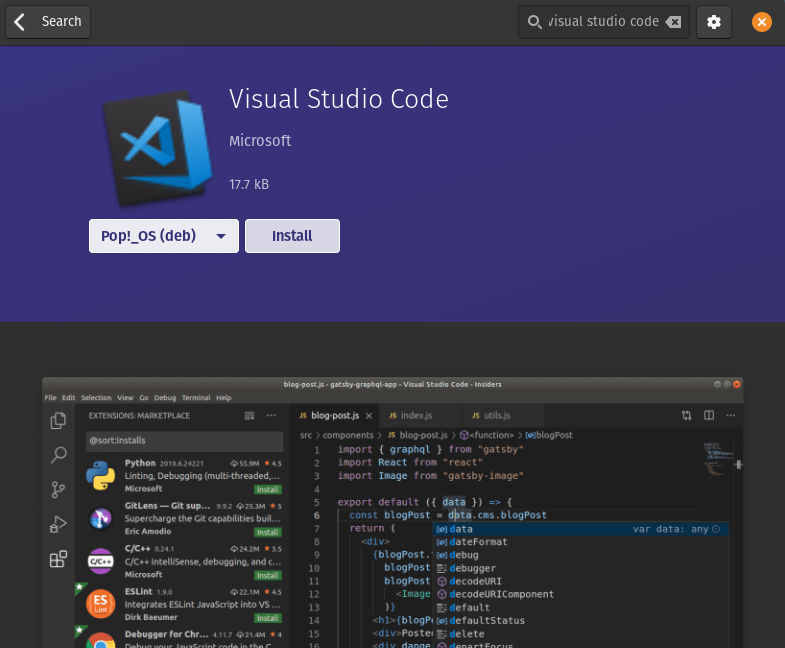
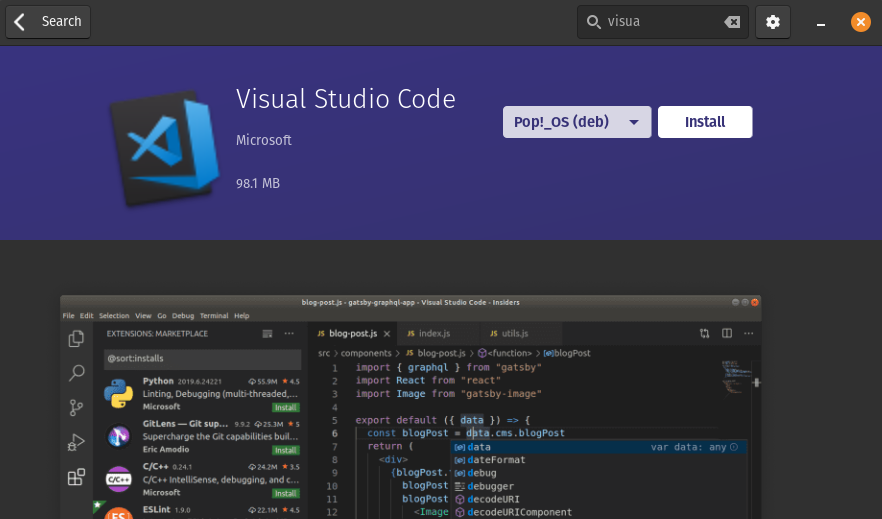
Update for Ubuntu and Pop!_OS 21.10

diff --git a/platforms/ubuntu/README.md b/platforms/ubuntu/README.md
@@ -1,81 +1,33 @@
-# Ubuntu 20.04 LTS<br>Pop!_OS 20.04 LTS
+# Ubuntu 21.10<br>Pop!_OS 21.10
 
 [**Ubuntu**](https://ubuntu.com) was the first Linux distribution to support Swift. [**Pop!_OS**](https://pop.system76.com) is derived from Ubuntu, so the following instructions apply to Pop!_OS as well.
 
-First, open the **Terminal** application and run the following command to install the software Swift depends on:
+Open the **Terminal** application and run the following commands:
 
 ```
-sudo apt-get install \
-             binutils \
-             git \
-             gnupg2 \
-             libc6-dev \
-             libcurl4 \
-             libedit2 \
-             libgcc-9-dev \
-             libpython2.7 \
-             libsqlite3-0 \
-             libstdc++-9-dev \
-             libxml2 \
-             libz3-dev \
-             pkg-config \
-             tzdata \
-             zlib1g-dev
+sudo apt install -y curl
+curl -s https://archive.swiftlang.xyz/install.sh | sudo bash
 ```
 
-> **Note**: This command requires administrator privileges, so it’ll ask for your password.
+At the prompt, enter **1** to select the latest stable release of Swift.
 
-Next, head over to [swift.org](https://swift.org/download/) and download the latest release of Swift for Ubuntu 20.04. At the time of writing, this release is 5.3 and the file you’ll download is **swift-5.3-RELEASE-ubuntu20.04.tar.gz**. Save this file to your **Downloads** directory.
-
-Back in Terminal, navigate to the **Downloads** directory:
+Next, install Swift:
 
 ```
-cd ~/Downloads
+sudo apt install swiftlang
 ```
 
-The file you downloaded is a compressed archive. Extract it with the following command:
-
-```
-tar -xzf swift-5.3-RELEASE-ubuntu20.04.tar.gz
-```
-
-> **Note**: Try pressing the **TAB** key after typing the first letters of this filename. Terminal can auto-complete filenames for you. This saves time and avoids mistakes.
-
-The previous command creates a **swift-5.3-RELEASE-ubuntu20.04** directory with the contents of the archive. You can now remove the archive:
-
-```
-rm swift-5.3-RELEASE-ubuntu20.04.tar.gz 
-```
-
-Although you can use Swift from the **Downloads** directory, it’s better to give it a more suitable home on your system. Use the following command to move Swift into the **/opt** directory:
-
-```
-sudo mv swift-5.3-RELEASE-ubuntu20.04 /opt/swift
-```
-
-> **Note**: This command requires administrator privileges, so it’ll ask for your password.
-
-Finally, you need to tell Terminal where it can find the **`swift`** command. Open the **.bashrc** configuration file with the **Gedit** text editor:
-
-```
-gedit ~/.bashrc
-```
-
-At the bottom of this file, add the following line:
-
-```
-export PATH=/opt/swift/usr/bin:"${PATH}"
-```
-
-Save your changes, exit Gedit, and reload Terminal.
-
-You can now execute the `swift` command to verify which version you have installed:
+Finally, verify that you can run the following command:
 
 ```
 swift --version
 ```
 
+## Known issues
+
+- The REPL doesn’t show certain characters and can behave erratically ([#13029](https://bugs.swift.org/browse/SR-13029), [#13885](https://bugs.swift.org/browse/SR-13885?filter=10506)).
+
 ---
 
-Last updated: 24 Oct. 2020 \
+Last updated: 23 Oct. 2021 \
 Author: [Steven Van Impe](https://github.com/svanimpe)

diff --git a/editors/vscode-linux/README.md b/editors/vscode-linux/README.md
@@ -25,7 +25,7 @@ On Ubuntu, install Visual Studio Code via the **Ubuntu Software** application:
 
 ![](install-ubuntu.png)
 
-On Pop!_OS, install it from the **Pop!_Shop**:
+On Pop!_OS, install the **deb** version from the **Pop!_Shop**:
 
 ![](install-pop.png)
 
@@ -81,8 +81,10 @@ Next, you’ll configure this extension to use the version of LLDB that’s incl
 
 Enter the correct value for your distribution:
 
-* On Ubuntu and Pop!_OS, enter **/opt/swift/usr/lib/liblldb.so**. This assumes that you’ve installed Swift in **/opt/swift** according to the installation instructions for [Swift on Ubuntu](../../platforms/ubuntu/README.md).
+* On Ubuntu and Pop!_OS, enter **/usr/lib/liblldb.so**.
 * On Fedora and CentOS/RHEL, enter **/usr/libexec/swift/lib/liblldb.so**.
+
+This assumes that you’ve installed Swift according to our installation instructions for your distribution.
 
 ## Usage
 
@@ -104,7 +106,15 @@ code hello
 
 ![](open-package.png)
 
-> **Note**: The SourceKit-LSP extension will not work properly until you build your package. It also requires you to reload the package when you add or remove source files.
+Note that the SourceKit-LSP extension will not work properly until you build your package. It also requires you to reload the package when you add or remove source files.
+
+### Workspace trust
+
+Visual Studio Code may show a trust prompt when opening a file or folder:
+
+![](workspace-trust.png)
+
+Make sure to select **Yes**, otherwise Visual Studio Code will disable the SourceKit-LSP extension.
 
 ### Integrated terminal
 
@@ -180,7 +190,7 @@ This adds a **tasks.json** file to the **.vscode** directory. Change the content
 
 You can now use the CodeLLDB extension to run and debug your program.
 
-> **Note**: You’ll have to repeat the previous steps when you create a new package. Fortunately, you can just copy the **.vscode** directory to your new package and change the name of your program in **launch.json**.
+> **Note**: You’ll have to repeat the previous steps every time you create a new package. Fortunately, you can just copy the **.vscode** directory to your new package and change the name of your program in **launch.json**.
 
 To run your program with CodeLLDB, select **Run ▸ Run Without Debugging** from the menu bar or press **Ctrl+F5**.
 
@@ -198,5 +208,5 @@ When you’re done debugging, use the **Stop** button on the floating toolbar or
 
 ---
 
-Last updated: 24 Oct. 2020 \
+Last updated: 23 Oct. 2021 \
 Author: [Steven Van Impe](https://github.com/svanimpe)

diff --git a/README.md b/README.md
@@ -11,9 +11,9 @@ We only provide instructions for the latest release of each supported platform. 
 - [CentOS 8](platforms/centos/README.md)
 - [Fedora 32](platforms/fedora/README.md)
 - [macOS Catalina](platforms/macOS/README.md)
-- [Pop!_OS 20.04 LTS](platforms/ubuntu/README.md)
+- [Pop!_OS 21.10](platforms/ubuntu/README.md)
 - [Red Hat Enterprise Linux 8](platforms/centos/README.md)
-- [Ubuntu 20.04 LTS](platforms/ubuntu/README.md)
+- [Ubuntu 21.10](platforms/ubuntu/README.md)
 - [Windows 10](platforms/windows/README.md)
 - [Windows 11](platforms/windows/README.md)
 
@@ -22,17 +22,17 @@ We only provide instructions for the latest release of each supported platform. 
 - [Gedit](editors/gedit/README.md)
     * CentOS 8
     * Fedora 32
-    * Pop!_OS 20.04 LTS
+    * Pop!_OS 21.10
     * Red Hat Enterprise Linux 8
-    * Ubuntu 20.04 LTS
+    * Ubuntu 21.10
 - [Notepad++](editors/notepadplusplus/README.md)
     * Windows 10 / 11
 - [Visual Studio Code (Linux)](editors/vscode-linux/README.md)
     * CentOS 8
     * Fedora 32
-    * Pop!_OS 20.04 LTS
+    * Pop!_OS 21.10
     * Red Hat Enterprise Linux 8
-    * Ubuntu 20.04 LTS
+    * Ubuntu 21.10
 - [Visual Studio Code (Windows)](editors/vscode-windows/README.md)
     * Windows 10 / 11
 - [Xcode](editors/xcode/README.md)
